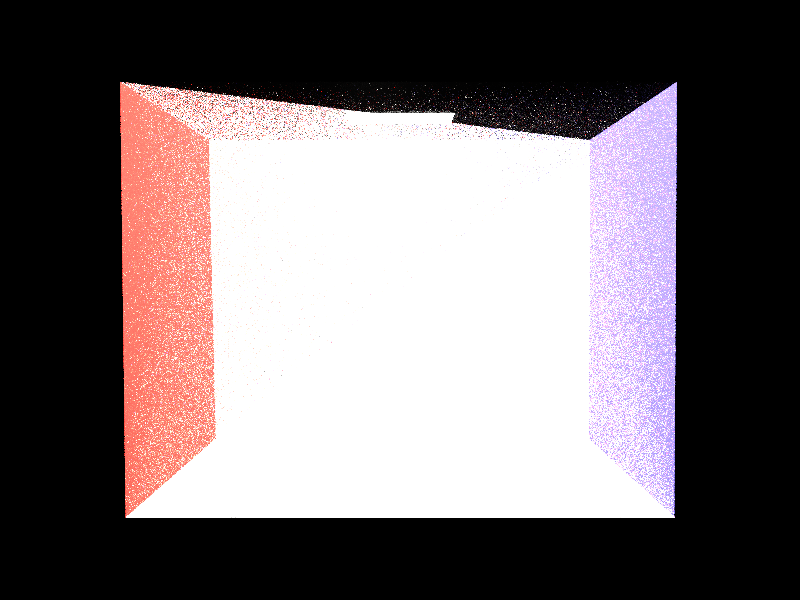
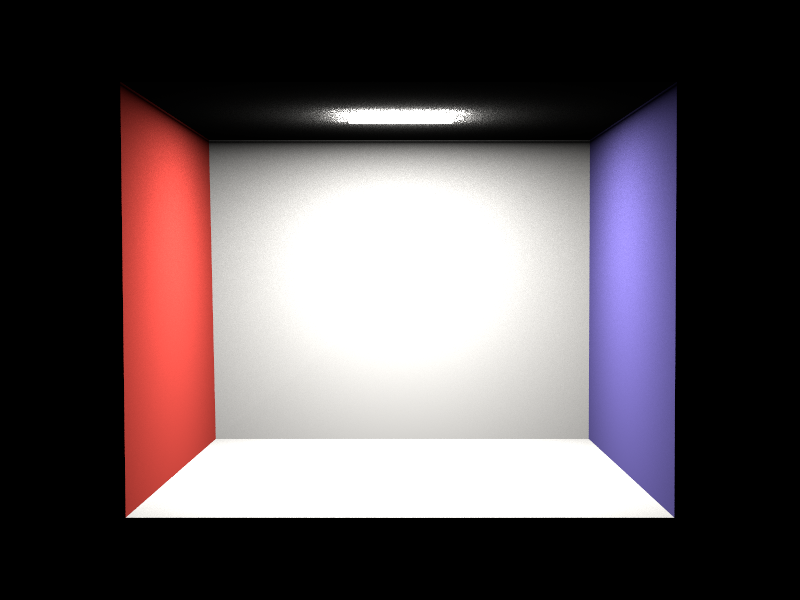
Fix bugs at operator - (Point3)

Changed region(s): [[0.125, 0.12, 0.8438, 0.87]]

diff --git a/src/core/vector.h b/src/core/vector.h
@@ -341,7 +341,7 @@ public:
 	Point3<T> &operator += (const Vector3<T> &u) { x += u.x; y += u.y; z += u.z; return *this; }
 	Point3<T> operator + (const Point3<T> &u) const { return Point3<T>(x + u.x, y + u.y, z + u.z); }
 	Point3<T> &operator += (const Point3<T> &u) { x += u.x; y += u.y; z += u.z; return *this; }
-	Vector3<T> operator - (const Point3<T> &u) const { return Vector3<T>(x - u.x, y - u.y, z - u.x); }
+	Vector3<T> operator - (const Point3<T> &u) const { return Vector3<T>(x - u.x, y - u.y, z - u.z); }
 	Point3<T> operator - (const Vector3<T> &u) const { return Point3<T>(x - u.x, y - u.y, z - u.z); }
 	Point3<T> &operator -= (const Vector3<T> &u) { x -= u.x; y -= u.y; z -= u.z; return *this; }
 	Point3<T> &operator -= (const Point3<T> &p) { x -= p.x; y -= p.y; z -= p.z; return *this; }
@@ -430,15 +430,22 @@ public:
 	Normal3<T> operator + (const Normal3<T> &n) const { return Normal3<T>(x + n.x, y + n.y, z + n.z); }
 	Normal3<T> operator - () const { return Normal3<T>(-x, -y, -z); }
 	Normal3<T> operator * (const Float &u) const { return Normal3<T>(x*u, y*u, z*u); }
+	Normal3<T> operator / (const Float &u) const { 
+		Assert(u != 0, "Divide Zero!");
+		Float inv = 1.0f / u;
+		return Normal3<T>(x*inv, y*inv, z*inv);
+	}
 
-	template<typename U>
-	friend Normal3<T> operator * (const U& f, const Normal3<T>& n) { return Normal3<T>(n.x*f, n.y*f, n.z*f); }	
-
-	friend Vector3<T> operator - (const Normal3<T>& n, const Vector3<T>& v) { return Vector3<T>(n.x - v.x, n.y - v.y, n.z - v.z); }
+	Float Length() const { return std::sqrt(x*x + y * y + z * z); }
 
 	std::string toString(const int &spaceNum = 0) const {
 		return indent(tfm::format("[ %.4f, %.4f, %.4f ]", x, y, z), spaceNum);
 	}
+
+	template<typename U>
+	friend Normal3<T> operator * (const U& f, const Normal3<T>& n) { return Normal3<T>(n.x*f, n.y*f, n.z*f); }	
+	template<typename T>
+	friend Vector3<T> operator - (const Normal3<T>& n, const Vector3<T>& v) { return Vector3<T>(n.x - v.x, n.y - v.y, n.z - v.z); }
 
 	friend std::ostream &operator << (std::ostream &os, const Normal3<T> &u) {
 		os << u.toString();
@@ -496,12 +503,22 @@ inline Vector3<T> Cross(const Vector3<T> &u, const Normal3<T> &v) {
 }
 
 template<typename T>
+inline Normal3<T> Normalize(const Normal3<T>& n) {
+	return n / n.Length();
+}
+
+template<typename T>
 inline Normal3<T> FaceForward(const Normal3<T> &n, const Vector3<T> &v) {
 	Float dot = Dot(n, v);
 	if (dot != 0)
 		return dot > 0 ? n : -n;
 	dot = Dot(n + Normal3<T>(Epsilon, 0, 0), v);
 	return dot > 0 ? n : -n;
+}
+
+template <typename T>
+inline Normal3<T> FaceForward(const Normal3<T> &n, const Normal3<T> &n2) {
+	return (Dot(n, n2) < 0.f) ? -n : n;
 }
 
 RAINBOW_NAMESPACE_END

diff --git a/src/integrators/whitted.cpp b/src/integrators/whitted.cpp
@@ -10,7 +10,7 @@ void WhittedIntegrator::Render(const Scene & scene) {
 	for (int y = 0; y < film->resolution.y; y++) {
 		for (int x = 0; x < film->resolution.x; x++) {
 			RGBSpectrum L(0.0);
-			int SampleNum = 10;
+			int SampleNum = 50;
 			for (int i = 0; i < SampleNum; i++) {
 				camera->GenerateRay(&ray,
 					Point2f(x - film->resolution.x *0.5, y - film->resolution.y *0.5) + sampler->Get2D());
@@ -31,6 +31,10 @@ RGBSpectrum WhittedIntegrator::Li(const Ray & ray, const Scene & scene, int dept
 		return L;
 	}
 
+	//if (((scene.aggregate->primitives[5]).get() != intersection.primitive) && ((scene.aggregate->primitives[4]).get() != intersection.primitive)){
+	//	return L;
+	//}
+
 
 	//std::cout << "Hit!" << std::endl;
 	Vector3f wo = intersection.wo;
@@ -40,26 +44,48 @@ RGBSpectrum WhittedIntegrator::Li(const Ray & ray, const Scene & scene, int dept
 	L += intersection.Le(wo);
 	
 	intersection.ComputeScatteringFunctions();
-	if (!intersection.bxdf)
+	if (!intersection.bxdf) {
+		//cout << "HH!" << endl;
 		return L;
+	}
+
+	//for (auto light : scene.lights) {
+	int kind;
+	if (sampler->Get1D() > 0.5f) kind = 1;
+	else kind = 0;
+	auto light = scene.lights[kind];
+		Vector3f wi;
+		Float pdf;
+		RGBSpectrum Li = light->SampleLi(intersection, sampler->Get2D(), &wi, &pdf);
+		//if (Li.IsBlack() || pdf == 0) continue;
+		pdf *= 0.5;
+		RGBSpectrum f = intersection.bxdf->f(wo, wi);
+		if (!f.IsBlack()) {
+			//cout << light << endl;
+			//cout << f << endl;
+			//cout << pdf << endl;
+			//cout << (f * Li*AbsDot(wi, n) / pdf) << endl;
+			
+			//cout << AbsDot(wi, n) << endl;
+
+			L += f * Li * AbsDot(wi, n) / pdf;			
+		}
+	//}
+
+	//exit(0);
+
 
 	if (depth + 1 < maxDep) {
 		L += SpecularReflect(ray, scene, depth, intersection);
 		//L += SpecularRefract(ray, scene, depth, intersection);
 	}
 
-	for (auto light : scene.lights) {
-		Vector3f wi;
-		Float pdf;
-		RGBSpectrum Li = light->SampleLi(intersection.p, sampler->Get2D(), &wi, &pdf);
-		if (Li.IsBlack() || pdf == 0) continue;
-		RGBSpectrum f = intersection.bxdf->f(wo, wi);
-		if (!f.IsBlack())
-			L += f * Li*AbsDot(wi, n) / pdf;
-	}
+	
 
 	delete(intersection.bxdf);
-
+	
+	//cout << L << endl;
+	
 	return L;
 }
 
@@ -75,7 +101,7 @@ RGBSpectrum WhittedIntegrator::SpecularReflect
 	
 		//return f;
 		
-		return f * Li(r, scene, depth + 1)*AbsDot(wi, n) / pdf;
+		return f * Li(r, scene, depth + 1)*AbsDot(wi,n) / pdf;
 	}
 	else
 		return RGBSpectrum(0.f);
@@ -87,7 +113,7 @@ RGBSpectrum WhittedIntegrator::SpecularRefract
 }
 
 WhittedIntegrator* CreateWhittedIntegrator(const PropertyList &list) {
-	return new WhittedIntegrator(5);
+	return new WhittedIntegrator(1);
 }
 
 RAINBOW_NAMESPACE_END

diff --git a/src/shapes/triangle.cpp b/src/shapes/triangle.cpp
@@ -192,14 +192,28 @@ bool Triangle::IntersectP(const Ray & ray) const {
 	return true;
 }
 
-Point3f Triangle::Sample(const Point2f & sample, Float * pdf) const {
+Interaction Triangle::Sample(const Point3f &p, const Point2f & sample, Float * pdf) const {
+	Interaction inter;
+
 	Point2f q = UniformSampleTriangle(sample);
 	const Point3f &p0 = mesh->Position[index[0]];
 	const Point3f &p1 = mesh->Position[index[1]];
 	const Point3f &p2 = mesh->Position[index[2]];
-	Point3f p = q[0] * p0 + q[1] * p1 + (1 - q[0] - q[1]) * p2;
-	*pdf = 1.0f / Area();
-	return p;
+	inter.p = q[0] * p0 + q[1] * p1 + (1 - q[0] - q[1]) * p2;
+
+	inter.n = Normalize(Normal3f(Cross(p1 - p0, p2 - p0)));
+	inter.n = FaceForward(inter.n, p - inter.p);
+
+	if (mesh->n) {
+		Normal3f ns(q[0] * mesh->n[index[0]] + q[1] * mesh->n[index[1]] +
+			(1 - q[0] - q[1]) * mesh->n[index[2]]);
+		inter.n = FaceForward(inter.n, ns);
+	}
+
+	Float a = Area();
+	//cout << a << endl;
+	*pdf = 1 / Area();
+	return inter;
 }
 
 Float Triangle::Area() const {

diff --git a/src/core/light.h b/src/core/light.h
@@ -11,7 +11,8 @@ class Light {
 public:
 	Light(const RGBSpectrum& m_Lemit) :Lemit(m_Lemit) {}
 
-	virtual RGBSpectrum SampleLi(const Point3f& p, const Point2f& sample, Vector3f* wo, Float* pdf) const = 0;
+	virtual RGBSpectrum SampleLi(const Interaction& intersection, const Point2f& sample, 
+		Vector3f* wo, Float* pdf) const = 0;
 
 	RGBSpectrum Lemit;
 };
@@ -20,8 +21,9 @@ class AreaLight :public Light {
 public:
 	AreaLight(const RGBSpectrum& m_Lemit, const std::shared_ptr<Shape> &m_shape) :Light(m_Lemit), shape(m_shape) {}
 	
-	RGBSpectrum L(const SurfaceInteraction& intersection,const Vector3f &w) const ;	
-	RGBSpectrum SampleLi(const Point3f& p, const Point2f& sample, Vector3f* wo, Float* pdf) const;
+	RGBSpectrum L(const Interaction& intersection,const Vector3f &w) const ;	
+	RGBSpectrum SampleLi(const Interaction& intersection, const Point2f& sample, 
+		Vector3f* wi, Float* pdf) const;
 
 	std::shared_ptr<Shape> shape;
 };

diff --git a/src/core/light.cpp b/src/core/light.cpp
@@ -3,14 +3,22 @@
 RAINBOW_NAMESPACE_BEGIN
 
 
-RGBSpectrum AreaLight::L(const SurfaceInteraction& interaction, const Vector3f & w) const {
+RGBSpectrum AreaLight::L(const Interaction& interaction, const Vector3f & w) const {
 	return (Dot(interaction.n, w) > 0) ? Lemit : RGBSpectrum(0.0);
 }
 
-RGBSpectrum AreaLight::SampleLi(const Point3f& p, const Point2f& sample, Vector3f* wo, Float* pdf) const {
-	Point3f pLight = shape->Sample(sample, pdf);
-	*wo = Normalize(pLight - p);
-	return Lemit;
+RGBSpectrum AreaLight::SampleLi(const Interaction& ref, const Point2f& sample, 
+	Vector3f* wi, Float* pdf) const {
+
+	Interaction pShape = shape->Sample(ref, sample, pdf);
+	
+	if (*pdf == 0 || (pShape.p - ref.p).LengthSquare() == 0) {
+		*pdf = 0;
+		return 0.f;
+	}
+	
+	*wi = Normalize(pShape.p - ref.p);	
+	return L(pShape, -*wi);
 }
 
 std::shared_ptr<AreaLight> CreateAreaLight(PropertyList & list, const std::shared_ptr<Shape>& shape) {

diff --git a/src/shapes/triangle.h b/src/shapes/triangle.h
@@ -14,7 +14,7 @@ public:
 	Bounds3f ObjectBounds() const { Assert(false, "Invoke TriangleMesh's ObjectBounds() Function!"); }
 	bool Intersect(const Ray & ray, Float *tHit, SurfaceInteraction*inter) const 
 		{ Assert(false, "Invoke TriangleMesh's Intersect() Function!"); }
-	Point3f Sample(const Point2f& sample, Float* pdf)const {
+	Interaction Sample(const Point3f &p, const Point2f& sample, Float* pdf)const {
 		Assert(false, "No Implement!");
 	}
 	Float Area() const { Assert(false, "Invoke TriangleMesh's Area() Function!"); }
@@ -38,7 +38,7 @@ public:
 	bool Intersect(const Ray & ray, Float *tHit, SurfaceInteraction*inter) const;
 	bool IntersectP(const Ray & ray) const;
 
-	Point3f Sample(const Point2f& sample, Float* pdf) const;
+	Interaction Sample(const Point3f &p, const Point2f& sample, Float* pdf) const;
 	Float Area() const;	
 
 private:

diff --git a/src/core/shape.cpp b/src/core/shape.cpp
@@ -13,4 +13,19 @@ bool Shape::IntersectP(const Ray & ray) const {
 	return Intersect(ray, nullptr, nullptr);
 }
 
+Interaction Shape::Sample(const Interaction & ref, const Point2f & sample, Float * pdf) const {
+	Interaction intr = Sample(ref.p, sample, pdf);
+	Vector3f wi = intr.p - ref.p;
+	if (wi.LengthSquare() == 0)
+		*pdf = 0;
+	else {
+		wi = Normalize(wi);
+		// Convert from area measure, as returned by the Sample() call
+		// above, to solid angle measure.
+		*pdf *= DistanceSquare(ref.p, intr.p) / AbsDot(-wi, intr.n);
+		if (std::isinf(*pdf)) *pdf = 0.f;
+	}
+	return intr;
+}
+
 RAINBOW_NAMESPACE_END

diff --git a/src/core/shape.h b/src/core/shape.h
@@ -19,7 +19,8 @@ public:
 	virtual bool Intersect(const Ray & ray,Float *tHit, SurfaceInteraction*inter) const = 0;
 	virtual bool IntersectP(const Ray & ray) const;
 
-	virtual Point3f Sample(const Point2f& sample, Float* pdf)const = 0;
+	virtual Interaction Sample(const Point3f &p, const Point2f& sample, Float* pdf) const = 0;
+	virtual Interaction Sample(const Interaction &ref, const Point2f& samplse, Float* pdf) const;
 	virtual Float Area() const = 0;
 
 	enum EShapeType {

diff --git a/src/shapes/cube.h b/src/shapes/cube.h
@@ -14,7 +14,7 @@ public:
 	bool Intersect(const Ray & ray, Float *tHit, SurfaceInteraction*inter) const override;
 	bool IntersectP(const Ray & ray) const override;
 
-	Point3f Sample(const Point2f& sample, Float* pdf)const {
+	Interaction Sample(const Point3f &p, const Point2f& sample, Float* pdf)const {
 		Assert(false, "No Implement!");
 	}
 	Float Area() const override; 

diff --git a/src/shapes/sphere.h b/src/shapes/sphere.h
@@ -15,7 +15,7 @@ public:
 	bool Intersect(const Ray & ray, Float *tHit, SurfaceInteraction*inter) const;
 	bool IntersectP(const Ray & ray) const;
 
-	Point3f Sample(const Point2f& sample, Float* pdf)const {
+	Interaction Sample(const Point3f &p, const Point2f& sample, Float* pdf)const {
 		Assert(false, "No Implement!");
 	}
 	Float Area() const;

diff --git a/src/integrators/whitted.h b/src/integrators/whitted.h
@@ -5,6 +5,13 @@
 
 RAINBOW_NAMESPACE_BEGIN
 
+/*
+V[f(x)] = E[(f(x)-E[f(x)])^2]
+        = E[f^2(x) + E^2[f(x)] - 2 f(x) E[f(x)]]
+		= E[f^2(x)] + E^2[f(x)] - 2 E^2[f(x)]  
+		= E[f^2(x)] - E^2[f(x)]
+*/
+
 class WhittedIntegrator :public Integrator {
 public:
 	WhittedIntegrator(const int& maxDep) :maxDep(maxDep) {}
